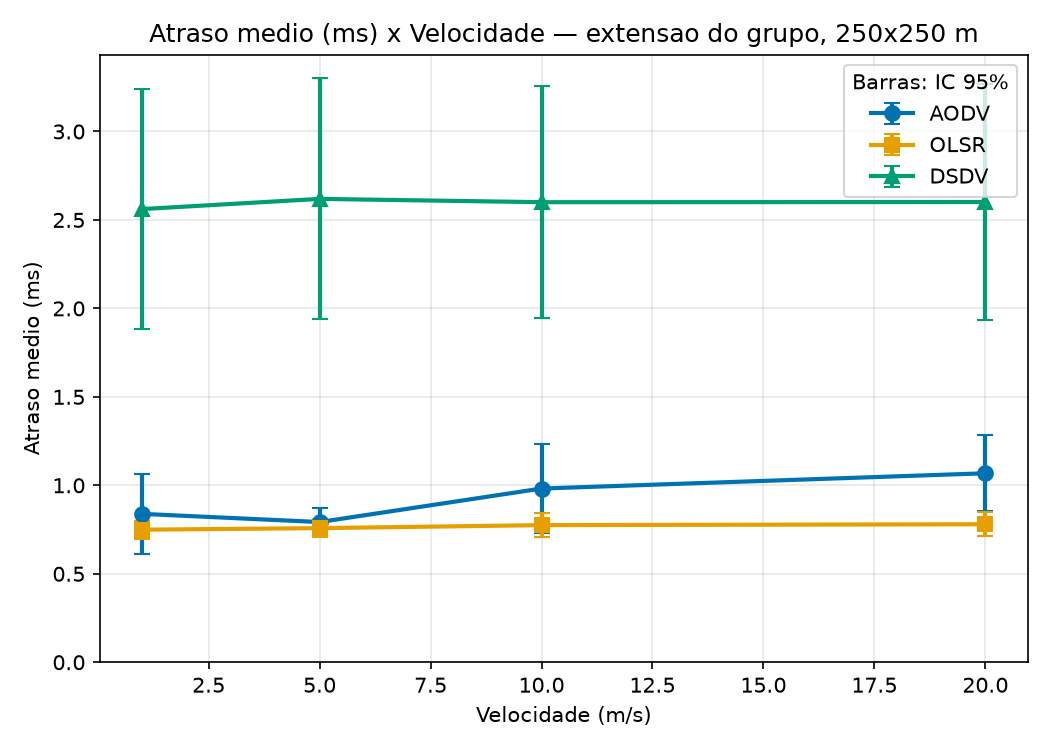
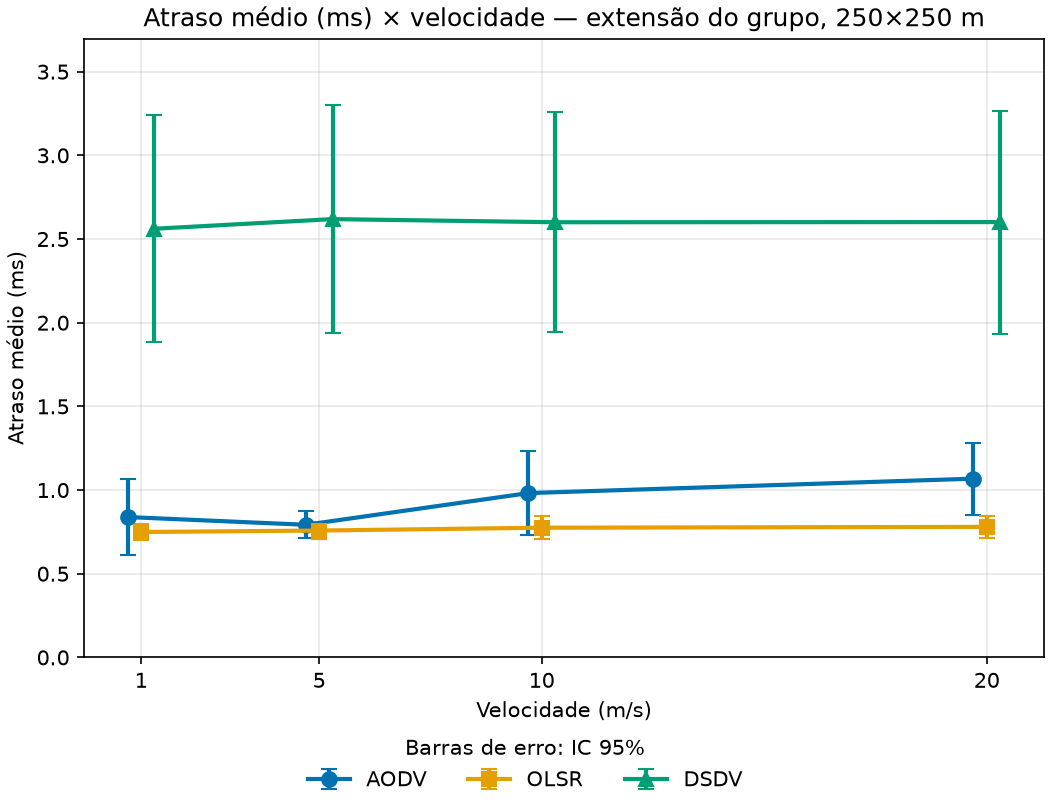
Ajusta formatação dos gráficos
- legenda fora da área do gráfico, sem cobrir pontos ou barras de erro
- margem no topo do eixo Y para os marcadores não ficarem cortados
- deslocamento horizontal por protocolo para separar as barras de erro
- eixo X só com as velocidades simuladas (1, 5, 10 e 20 m/s)
- títulos e rótulos com acentos, também no dashboard
- linha de carga ofertada no throughput, calculada como throughput / PDR
  e salva na coluna carga_ofertada_kbps do CSV agregado
- gráficos e CSV agregado gerados de novo a partir da bateria completa

diff --git a/scripts/analyze.py b/scripts/analyze.py
@@ -31,8 +31,8 @@ FIGURES_DIR = REPO_DIR / "figures"
 METRICAS = {
     "pdr_percent": ("PDR (%)", "pdr_vs_velocidade"),
     "throughput_kbps": ("Throughput (kbps)", "throughput_vs_velocidade"),
-    "atraso_medio_ms": ("Atraso medio (ms)", "delay_vs_velocidade"),
-    "jitter_medio_ms": ("Jitter medio (ms)", "jitter_vs_velocidade"),
+    "atraso_medio_ms": ("Atraso médio (ms)", "delay_vs_velocidade"),
+    "jitter_medio_ms": ("Jitter médio (ms)", "jitter_vs_velocidade"),
 }
 COLUNAS_OBRIGATORIAS = [
     "protocolo", "area_m", "velocidade_m_s", "execucao",
@@ -45,6 +45,8 @@ REPETICOES_ESPERADAS = 5
 # Paleta Okabe-Ito (seguro para daltonismo), uma cor fixa por protocolo
 CORES = {"AODV": "#0072B2", "OLSR": "#E69F00", "DSDV": "#009E73"}
 MARCADORES = {"AODV": "o", "OLSR": "s", "DSDV": "^"}
+# Deslocamento horizontal (m/s) de cada protocolo, para as barras de erro nao se sobreporem
+DESLOCAMENTO = {"AODV": -0.3, "OLSR": 0.0, "DSDV": 0.3}
 
 # Quantil 0,975 da t de Student para 1..30 graus de liberdade (IC bilateral de 95%)
 T_975 = [
@@ -155,6 +157,13 @@ def agregar(linhas):
             linha[f"{col}_desvio"] = desvio
             linha[f"{col}_ic95"] = ic95
             linha[f"{col}_n"] = n
+        # Com pacotes de tamanho fixo, throughput / PDR e a carga ofertada pela aplicacao
+        cargas = [
+            float(r["throughput_kbps"]) / (float(r["pdr_percent"]) / 100.0)
+            for r in grupo
+            if float(r["pdr_percent"]) > 0
+        ]
+        linha["carga_ofertada_kbps"] = mean(cargas) if cargas else math.nan
         agregados.append(linha)
     return agregados
 
@@ -173,7 +182,8 @@ def salvar_processado(agregados):
 def criar_figura(agregados, area_alvo, coluna, rotulo_area):
     rotulo_y = METRICAS[coluna][0]
     dados_area = [a for a in agregados if a["area_m"] == area_alvo]
-    fig, ax = plt.subplots(figsize=(7, 5))
+    fig, ax = plt.subplots(figsize=(7, 5.4), layout="constrained")
+    topo = 0.0
     for protocolo in PROTOCOLOS:
         pontos = sorted(
             (a["velocidade_m_s"], a[f"{coluna}_media"], a[f"{coluna}_ic95"])
@@ -182,7 +192,7 @@ def criar_figura(agregados, area_alvo, coluna, rotulo_area):
         )
         if not pontos:
             continue
-        x = [p[0] for p in pontos]
+        x = [p[0] + DESLOCAMENTO[protocolo] for p in pontos]
         y = [p[1] for p in pontos]
         erro = [0.0 if math.isnan(p[2]) else p[2] for p in pontos]
         # Com poucas execucoes o IC pode ultrapassar limites fisicos (por exemplo,
@@ -195,21 +205,33 @@ def criar_figura(agregados, area_alvo, coluna, rotulo_area):
             if limite_superior is not None else e
             for valor, e in zip(y, erro)
         ]
+        topo = max([topo] + [v + e for v, e in zip(y, erro_superior) if not math.isnan(v)])
         ax.errorbar(
             x, y, yerr=[erro_inferior, erro_superior],
             marker=MARCADORES[protocolo], markersize=7, linewidth=2,
             capsize=4, label=protocolo, color=CORES[protocolo],
         )
 
+    if coluna == "throughput_kbps":
+        cargas = [a["carga_ofertada_kbps"] for a in dados_area if not math.isnan(a["carga_ofertada_kbps"])]
+        if cargas:
+            carga = mean(cargas)
+            ax.axhline(carga, color="0.4", linestyle="--", linewidth=1.2, label="Carga ofertada")
+            topo = max(topo, carga)
+
+    velocidades = sorted({a["velocidade_m_s"] for a in dados_area})
+    ax.set_xticks(velocidades, [f"{v:g}" for v in velocidades])
     ax.set_xlabel("Velocidade (m/s)")
     ax.set_ylabel(rotulo_y)
-    ax.set_title(f"{rotulo_y} x Velocidade — {rotulo_area}")
-    ax.set_ylim(bottom=0)
+    ax.set_title(f"{rotulo_y} × velocidade — {rotulo_area}")
+    # Margem acima do maior valor para os marcadores nao ficarem cortados na borda
     if coluna == "pdr_percent":
         ax.set_ylim(0, 105)
-    ax.legend(title="Barras: IC 95%")
+    else:
+        ax.set_ylim(0, topo * 1.12 if topo > 0 else 1.0)
     ax.grid(True, alpha=0.3)
-    fig.tight_layout()
+    # Legenda fora da area do grafico, para nunca cobrir pontos ou barras de erro
+    fig.legend(loc="outside lower center", ncol=4, title="Barras de erro: IC 95%", frameon=False)
     return fig
 
 
@@ -241,8 +263,8 @@ def main():
     linhas = validar(linhas, repeticoes_esperadas)
     agregados = agregar(linhas)
     salvar_processado(agregados)
-    gerar_graficos(agregados, area_alvo=500.0, sufixo="area500_base", rotulo_area="cenario-base, 500x500 m")
-    gerar_graficos(agregados, area_alvo=250.0, sufixo="area250_extensao", rotulo_area="extensao do grupo, 250x250 m")
+    gerar_graficos(agregados, area_alvo=500.0, sufixo="area500_base", rotulo_area="cenário-base, 500×500 m")
+    gerar_graficos(agregados, area_alvo=250.0, sufixo="area250_extensao", rotulo_area="extensão do grupo, 250×250 m")
 
 
 if __name__ == "__main__":

diff --git a/scripts/dashboard.py b/scripts/dashboard.py
@@ -195,7 +195,7 @@ def read_results() -> pd.DataFrame | None:
 
 
 def make_figure(aggregated: list[dict], area: float, metric: str):
-    fig = criar_figura(aggregated, area, metric, f"area {area:g}x{area:g} m")
+    fig = criar_figura(aggregated, area, metric, f"área {area:g}×{area:g} m")
     return fig, f"{METRICS[metric]}_area{int(area)}.png"
 
 
